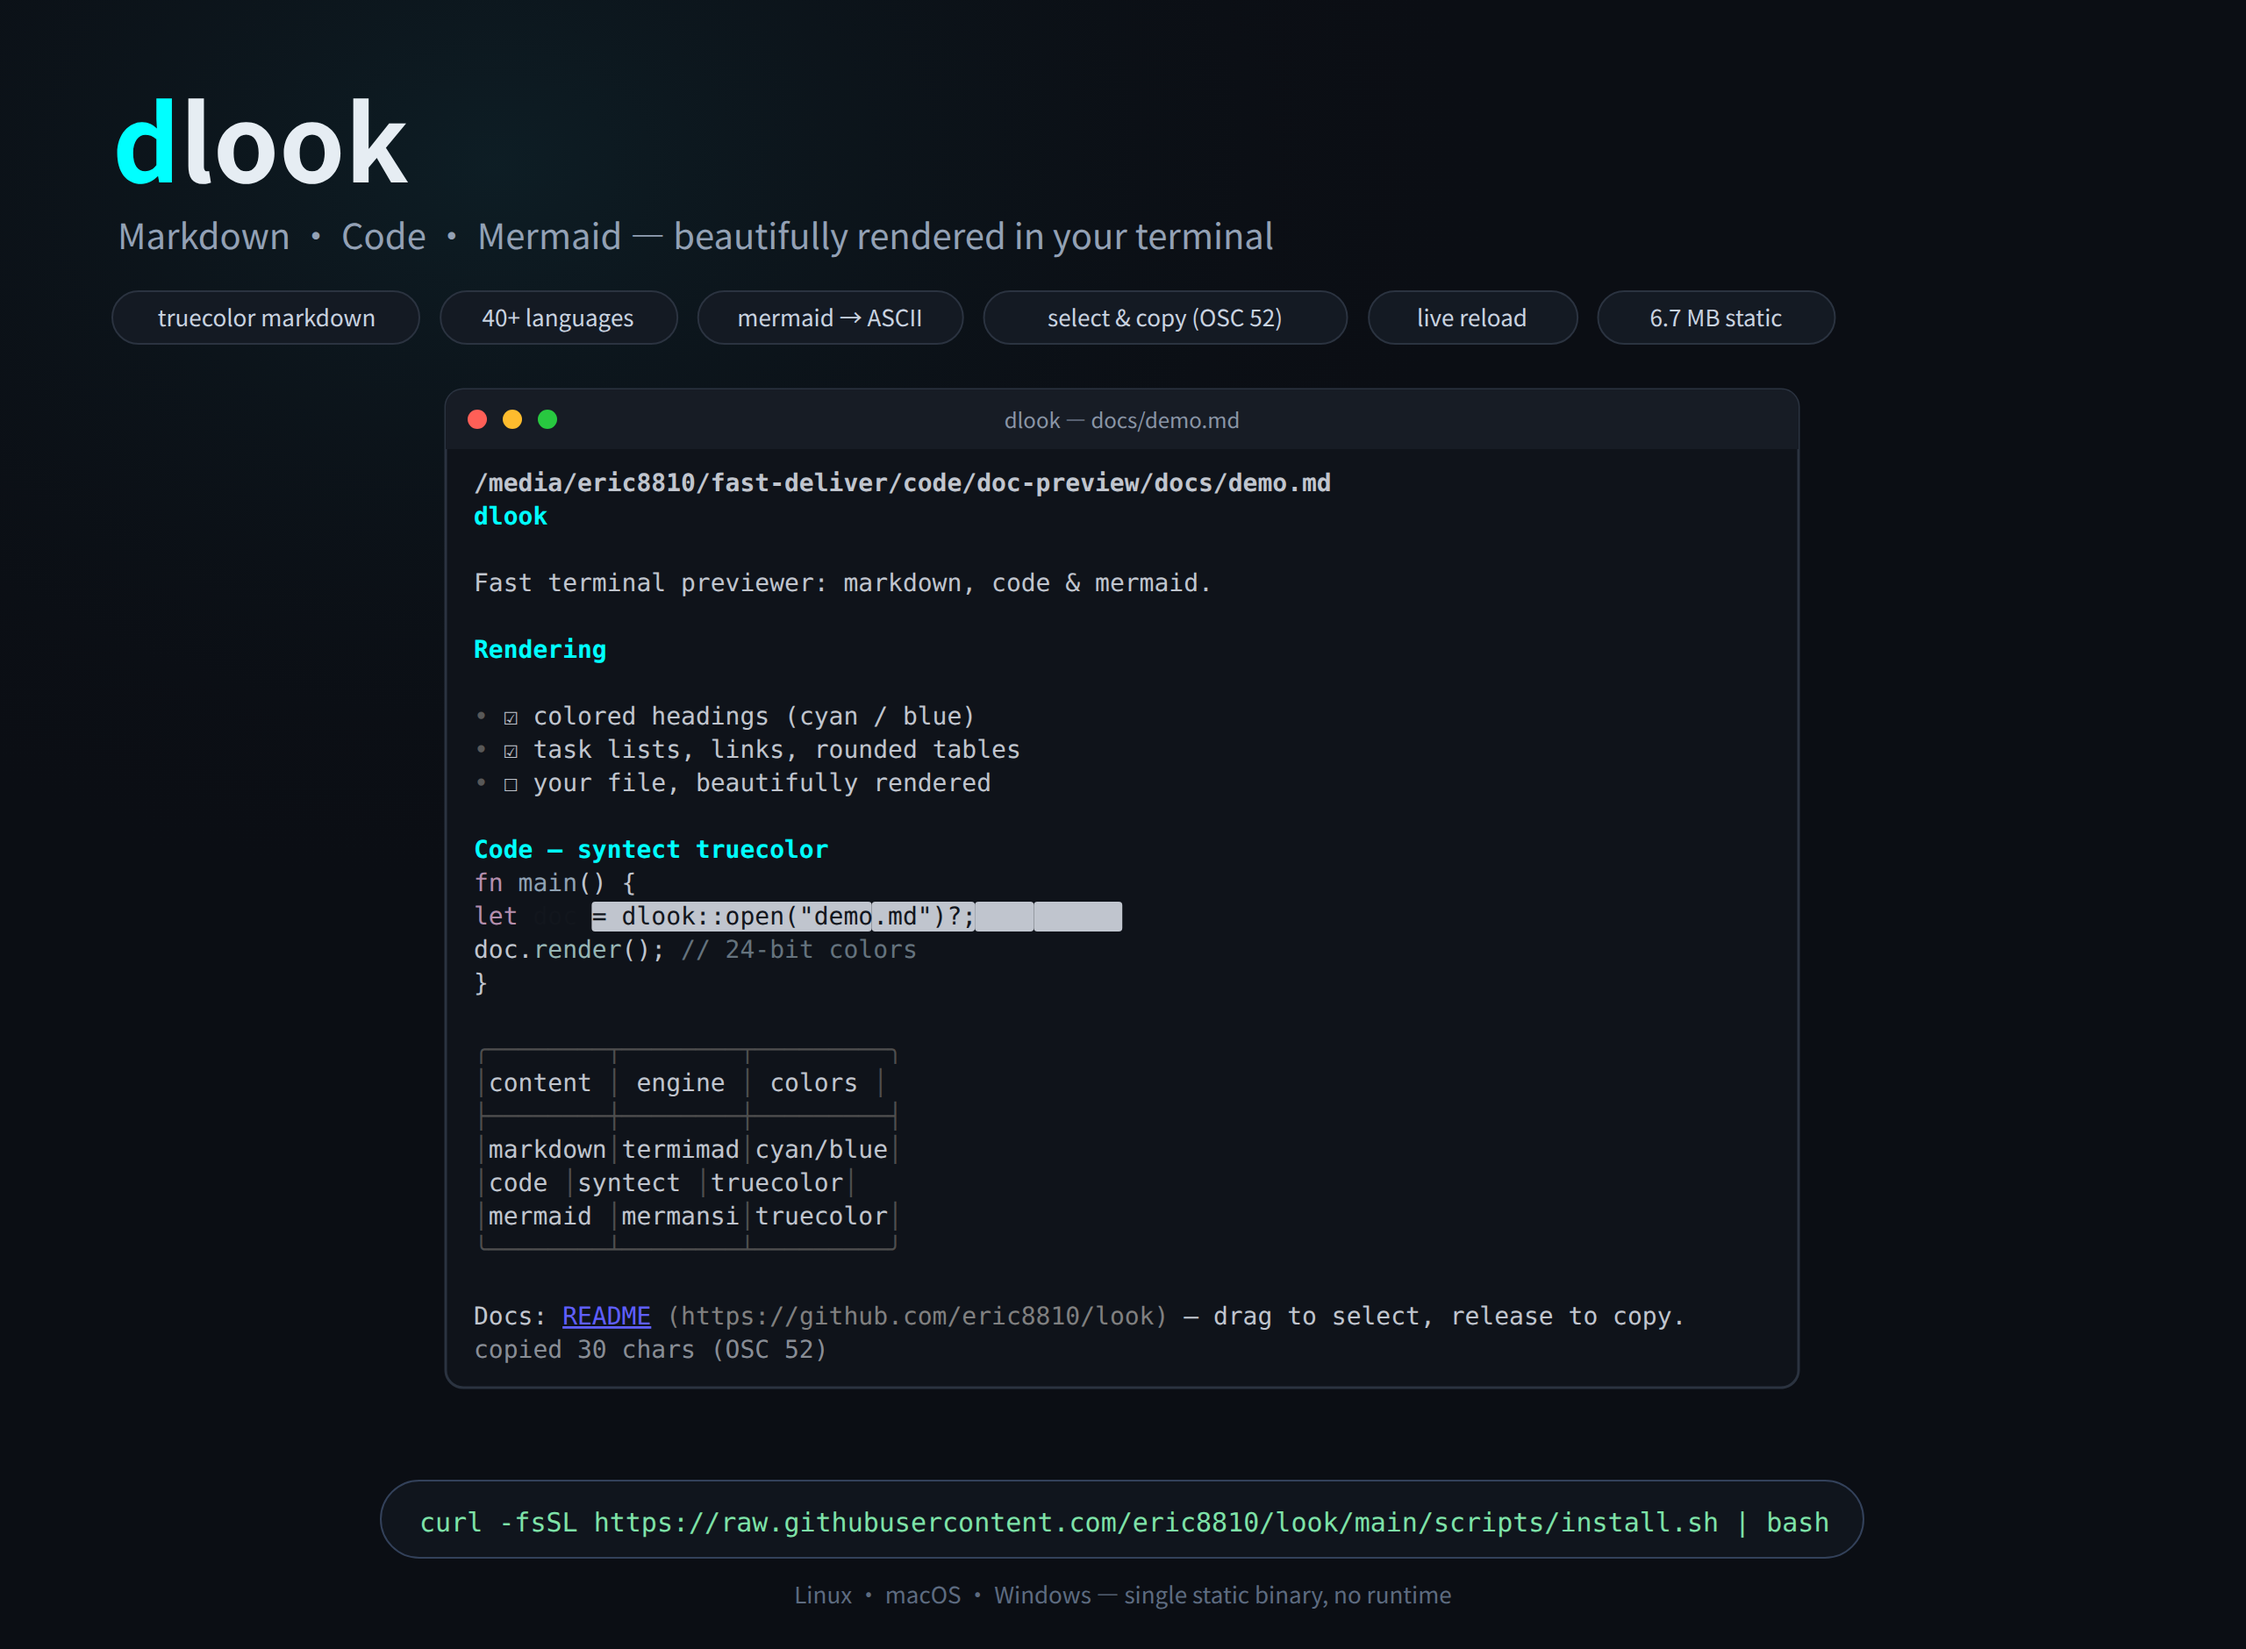
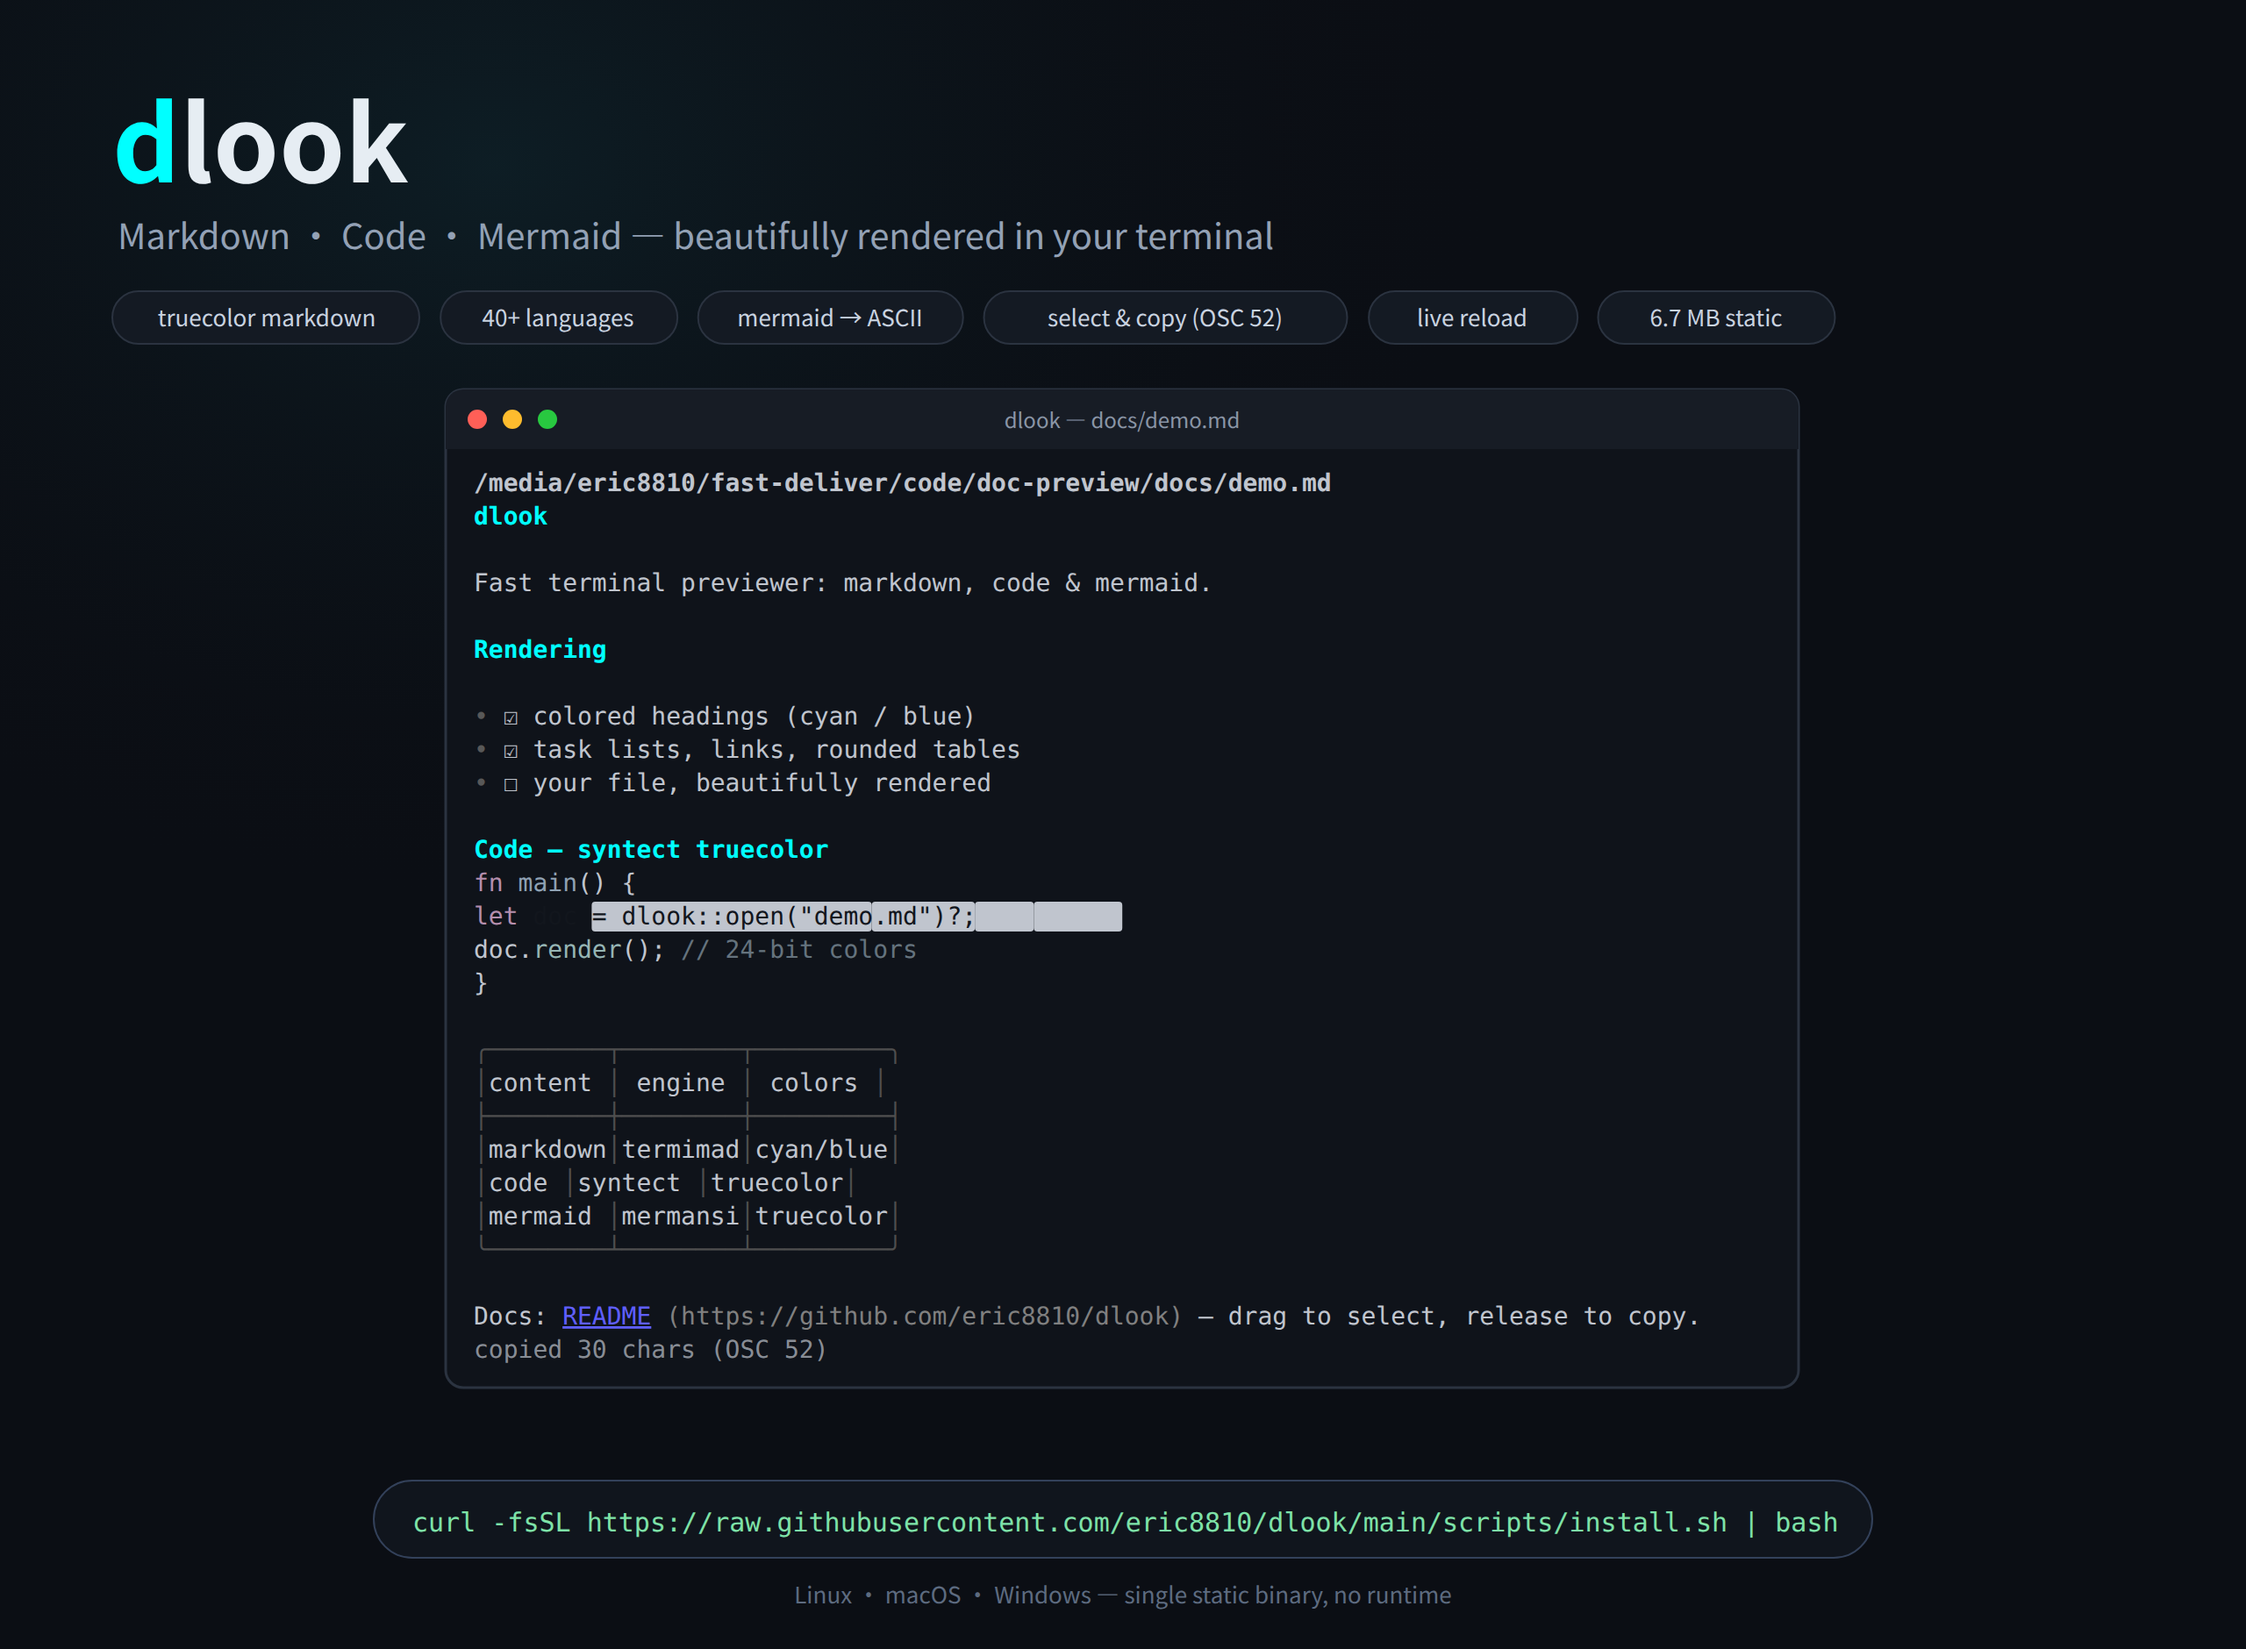
feat!: rename project and repo to dlook
Unify project identity with the binary name (dlook since v0.2.0):
- scripts/install.sh: REPO=dlook
- README badges/install URLs, Cargo repository metadata
- package.json (legacy Node) name/bin, design doc titles + rename note
- promo images regenerated with the new install URL
- DECISIONS D13 records the rename

GitHub repo eric8810/look -> eric8810/dlook follows in a separate step
(old URLs 301-redirect, so existing installs keep working).

Changed region(s): [[0.1875, 0.8947, 0.8125, 0.9255], [0.6562, 0.7713, 0.75, 0.8021], [0.5312, 0.7713, 0.625, 0.8021]]

diff --git a/scripts/gen-promo.py b/scripts/gen-promo.py
@@ -398,7 +398,7 @@ def gen_banner(md_scr, path_out, width=1280, height=940):
     parts.append(f'<g transform="translate({tx},{ty})">{term}</g>')
 
     # 安装命令 pill
-    cmd = "curl -fsSL https://raw.githubusercontent.com/eric8810/look/main/scripts/install.sh | bash"
+    cmd = "curl -fsSL https://raw.githubusercontent.com/eric8810/dlook/main/scripts/install.sh | bash"
     cfs = 15
     cw = cfs * CHAR_W
     pw = len(cmd) * cw + 44

diff --git a/scripts/gen-mascot-banner.py b/scripts/gen-mascot-banner.py
@@ -140,7 +140,7 @@ def build_svg(bg_hex, mascot_path, mascot_size):
             cx += w + 12
 
     # 安装命令 pill(字号与宽度按右侧留白平衡)
-    cmd = "curl -fsSL https://raw.githubusercontent.com/eric8810/look/main/scripts/install.sh | bash"
+    cmd = "curl -fsSL https://raw.githubusercontent.com/eric8810/dlook/main/scripts/install.sh | bash"
     cfs = 12.5
     pw = len(cmd) * cfs * CHAR_W + 34
     py = 402

diff --git a/test/e2e/run_acceptance.py b/test/e2e/run_acceptance.py
@@ -1,6 +1,6 @@
 #!/usr/bin/env python3
 """
-look — E2E acceptance test suite (scenarios A–H from DESIGN.md §15).
+dlook — E2E acceptance test suite (scenarios A–H from DESIGN.md §15).
 
 Uses a real pty + pyte terminal emulator (tmux is unavailable in this env).
 Run:  BIN=./preview python3 test/e2e/run_acceptance.py

diff --git a/README.md b/README.md
@@ -6,14 +6,14 @@
 
 **Markdown · Code · Mermaid — beautifully rendered in your terminal.**
 
-[![release](https://img.shields.io/github/v/release/eric8810/look?color=brightgreen&label=release)](https://github.com/eric8810/look/releases)
-[![license](https://img.shields.io/github/license/eric8810/look?color=blue)](LICENSE)
-[![platforms](https://img.shields.io/badge/platform-Linux%20%7C%20macOS%20%7C%20Windows-6e7681)](https://github.com/eric8810/look/releases/latest)
-[![binary size](https://img.shields.io/badge/binary-%E2%89%886.6%20MB-orange)](https://github.com/eric8810/look/releases/latest)
+[![release](https://img.shields.io/github/v/release/eric8810/dlook?color=brightgreen&label=release)](https://github.com/eric8810/dlook/releases)
+[![license](https://img.shields.io/github/license/eric8810/dlook?color=blue)](LICENSE)
+[![platforms](https://img.shields.io/badge/platform-Linux%20%7C%20macOS%20%7C%20Windows-6e7681)](https://github.com/eric8810/dlook/releases/latest)
+[![binary size](https://img.shields.io/badge/binary-%E2%89%886.6%20MB-orange)](https://github.com/eric8810/dlook/releases/latest)
 [![rust](https://img.shields.io/badge/written%20in-Rust-dea584)](rs/)
 
 ```bash
-curl -fsSL https://raw.githubusercontent.com/eric8810/look/main/scripts/install.sh | bash
+curl -fsSL https://raw.githubusercontent.com/eric8810/dlook/main/scripts/install.sh | bash
 ```
 
 Linux · macOS · Windows — single static binary, no runtime, starts instantly.
@@ -61,7 +61,7 @@ Real renders, captured from the binary (regenerate with `python3 scripts/gen-pro
 ### One-liner (prebuilt binary, no Rust toolchain needed)
 
 ```bash
-curl -fsSL https://raw.githubusercontent.com/eric8810/look/main/scripts/install.sh | bash
+curl -fsSL https://raw.githubusercontent.com/eric8810/dlook/main/scripts/install.sh | bash
 ```
 
 Auto-detects your platform (Linux/macOS, x86_64/aarch64) and installs to
@@ -69,11 +69,11 @@ Auto-detects your platform (Linux/macOS, x86_64/aarch64) and installs to
 on the right side of the pipe, not to `curl`:
 
 ```bash
-curl -fsSL https://raw.githubusercontent.com/eric8810/look/main/scripts/install.sh \
+curl -fsSL https://raw.githubusercontent.com/eric8810/dlook/main/scripts/install.sh \
   | sudo env VERSION=v0.2.1 INSTALL_DIR=/usr/local/bin bash
 ```
 
-Windows: download [`dlook-x86_64-pc-windows-msvc.zip`](https://github.com/eric8810/look/releases/latest) from Releases and unzip.
+Windows: download [`dlook-x86_64-pc-windows-msvc.zip`](https://github.com/eric8810/dlook/releases/latest) from Releases and unzip.
 
 ### From source
 

diff --git a/DECISIONS.md b/DECISIONS.md
@@ -20,6 +20,7 @@
 | D10 | markdown 主题配置化 | A:不做 | — | ✅ 已决策:不做 |
 | D11 | 文本拖选与复制 | A:应用内拖选 + OSC 52(分两步) | M | ✅ 已实施(①②均落地) |
 | D12 | 产物体积 | 保持全功能 6.59MB;UPX 与功能裁剪均否决 | — | ✅ 已决策 |
+| D13 | 项目名/仓库名 | 统一改为 dlook(含 GitHub repo 重命名) | S | ✅ 已实施 |
 
 ---
 
@@ -173,6 +174,19 @@ pyte E2E 96 + tmux E2E 33 全过;代价:启动 1.2ms → 104ms、杀软误报风
 notify → stat 轮询热重载(行为等价,事件循环本就以 200ms 轮询,去掉整个 watcher 线程/channel/依赖)。
 
 **结果**:6,680,568 → **6,589,160 字节(−91KB)**;验证:单元 15 + pyte 96 + tmux 33 全过,热重载冒烟(编辑后 ≤500ms 重排)通过。
+
+---
+
+## D13 项目名/仓库名统一改为 dlook(2026-09-03 追加)
+
+**背景**:v0.2.0 起产物二进制已名为 dlook,但项目/仓库名仍是 `look`(github.com/eric8810/look),
+视觉评审也指出「dlook vs look」易造成认知不一致。决策:**统一为 dlook**。
+
+**实施**:
+- GitHub repo 重命名 `eric8810/look` → `eric8810/dlook`(旧 URL 自动 301 重定向,旧安装命令仍有效)
+- install.sh `REPO=dlook`;README 徽章/安装 URL;rs/Cargo.toml `repository`
+- package.json(遗留 Node 版)name/bin、设计文档标题 + 改名说明
+- 宣传图内嵌安装命令同步重生成(gen-promo.py / gen-mascot-banner.py)
 
 ---
 

diff --git a/DESIGN-rust.md b/DESIGN-rust.md
@@ -1,6 +1,6 @@
-# look (Rust 版) 设计文档
+# dlook (Rust 版) 设计文档
 
-> `look`/`preview` 的 Rust 重写版。目标:把单文件二进制从 **110MB(Node SEA)降到 ~4–6MB**,
+> `look`/`preview`(现统一更名 **dlook**)的 Rust 重写版。目标:把单文件二进制从 **110MB(Node SEA)降到 ~4–6MB**,
 > 同时保持现有 E2E 验收契约,并**新增两项 TS 版没有的能力**:
 > ① mermaid 图表在终端渲染成 ASCII/Unicode 图;② markdown 围栏代码块语法上色。
 > 技术栈:Rust + [ratatui](https://ratatui.rs)(diff 渲染)+ [crossterm](https://crates.io/crates/crossterm)(终端 I/O)

diff --git a/DESIGN.md b/DESIGN.md
@@ -1,8 +1,11 @@
-# doc-preview 设计文档
+# dlook 设计文档
 
 > 一个最简单的终端文件预览 CLI，能渲染 markdown 格式，也能看代码/纯文本。
 > 技术栈：[vue-tui](https://vue-tui.pages.dev/)（Vue 3 terminal UI + stdout renderer）。
 > 打包：Node SEA 单文件二进制。
+>
+> **注**:本项目原名 `look`,2026-09 起项目名/仓库名统一改为 **dlook**(产物二进制自 v0.2.0 起即为 dlook)。
+> 文中旧称 `look`/`preview` 均指同一项目的历史阶段。
 
 ---
 

diff --git a/docs/demo.md b/docs/demo.md
@@ -23,4 +23,4 @@ fn main() {
 | code | syntect | truecolor |
 | mermaid | mermansi | truecolor |
 
-Docs: [README](https://github.com/eric8810/look) — drag to select, release to copy.
+Docs: [README](https://github.com/eric8810/dlook) — drag to select, release to copy.
